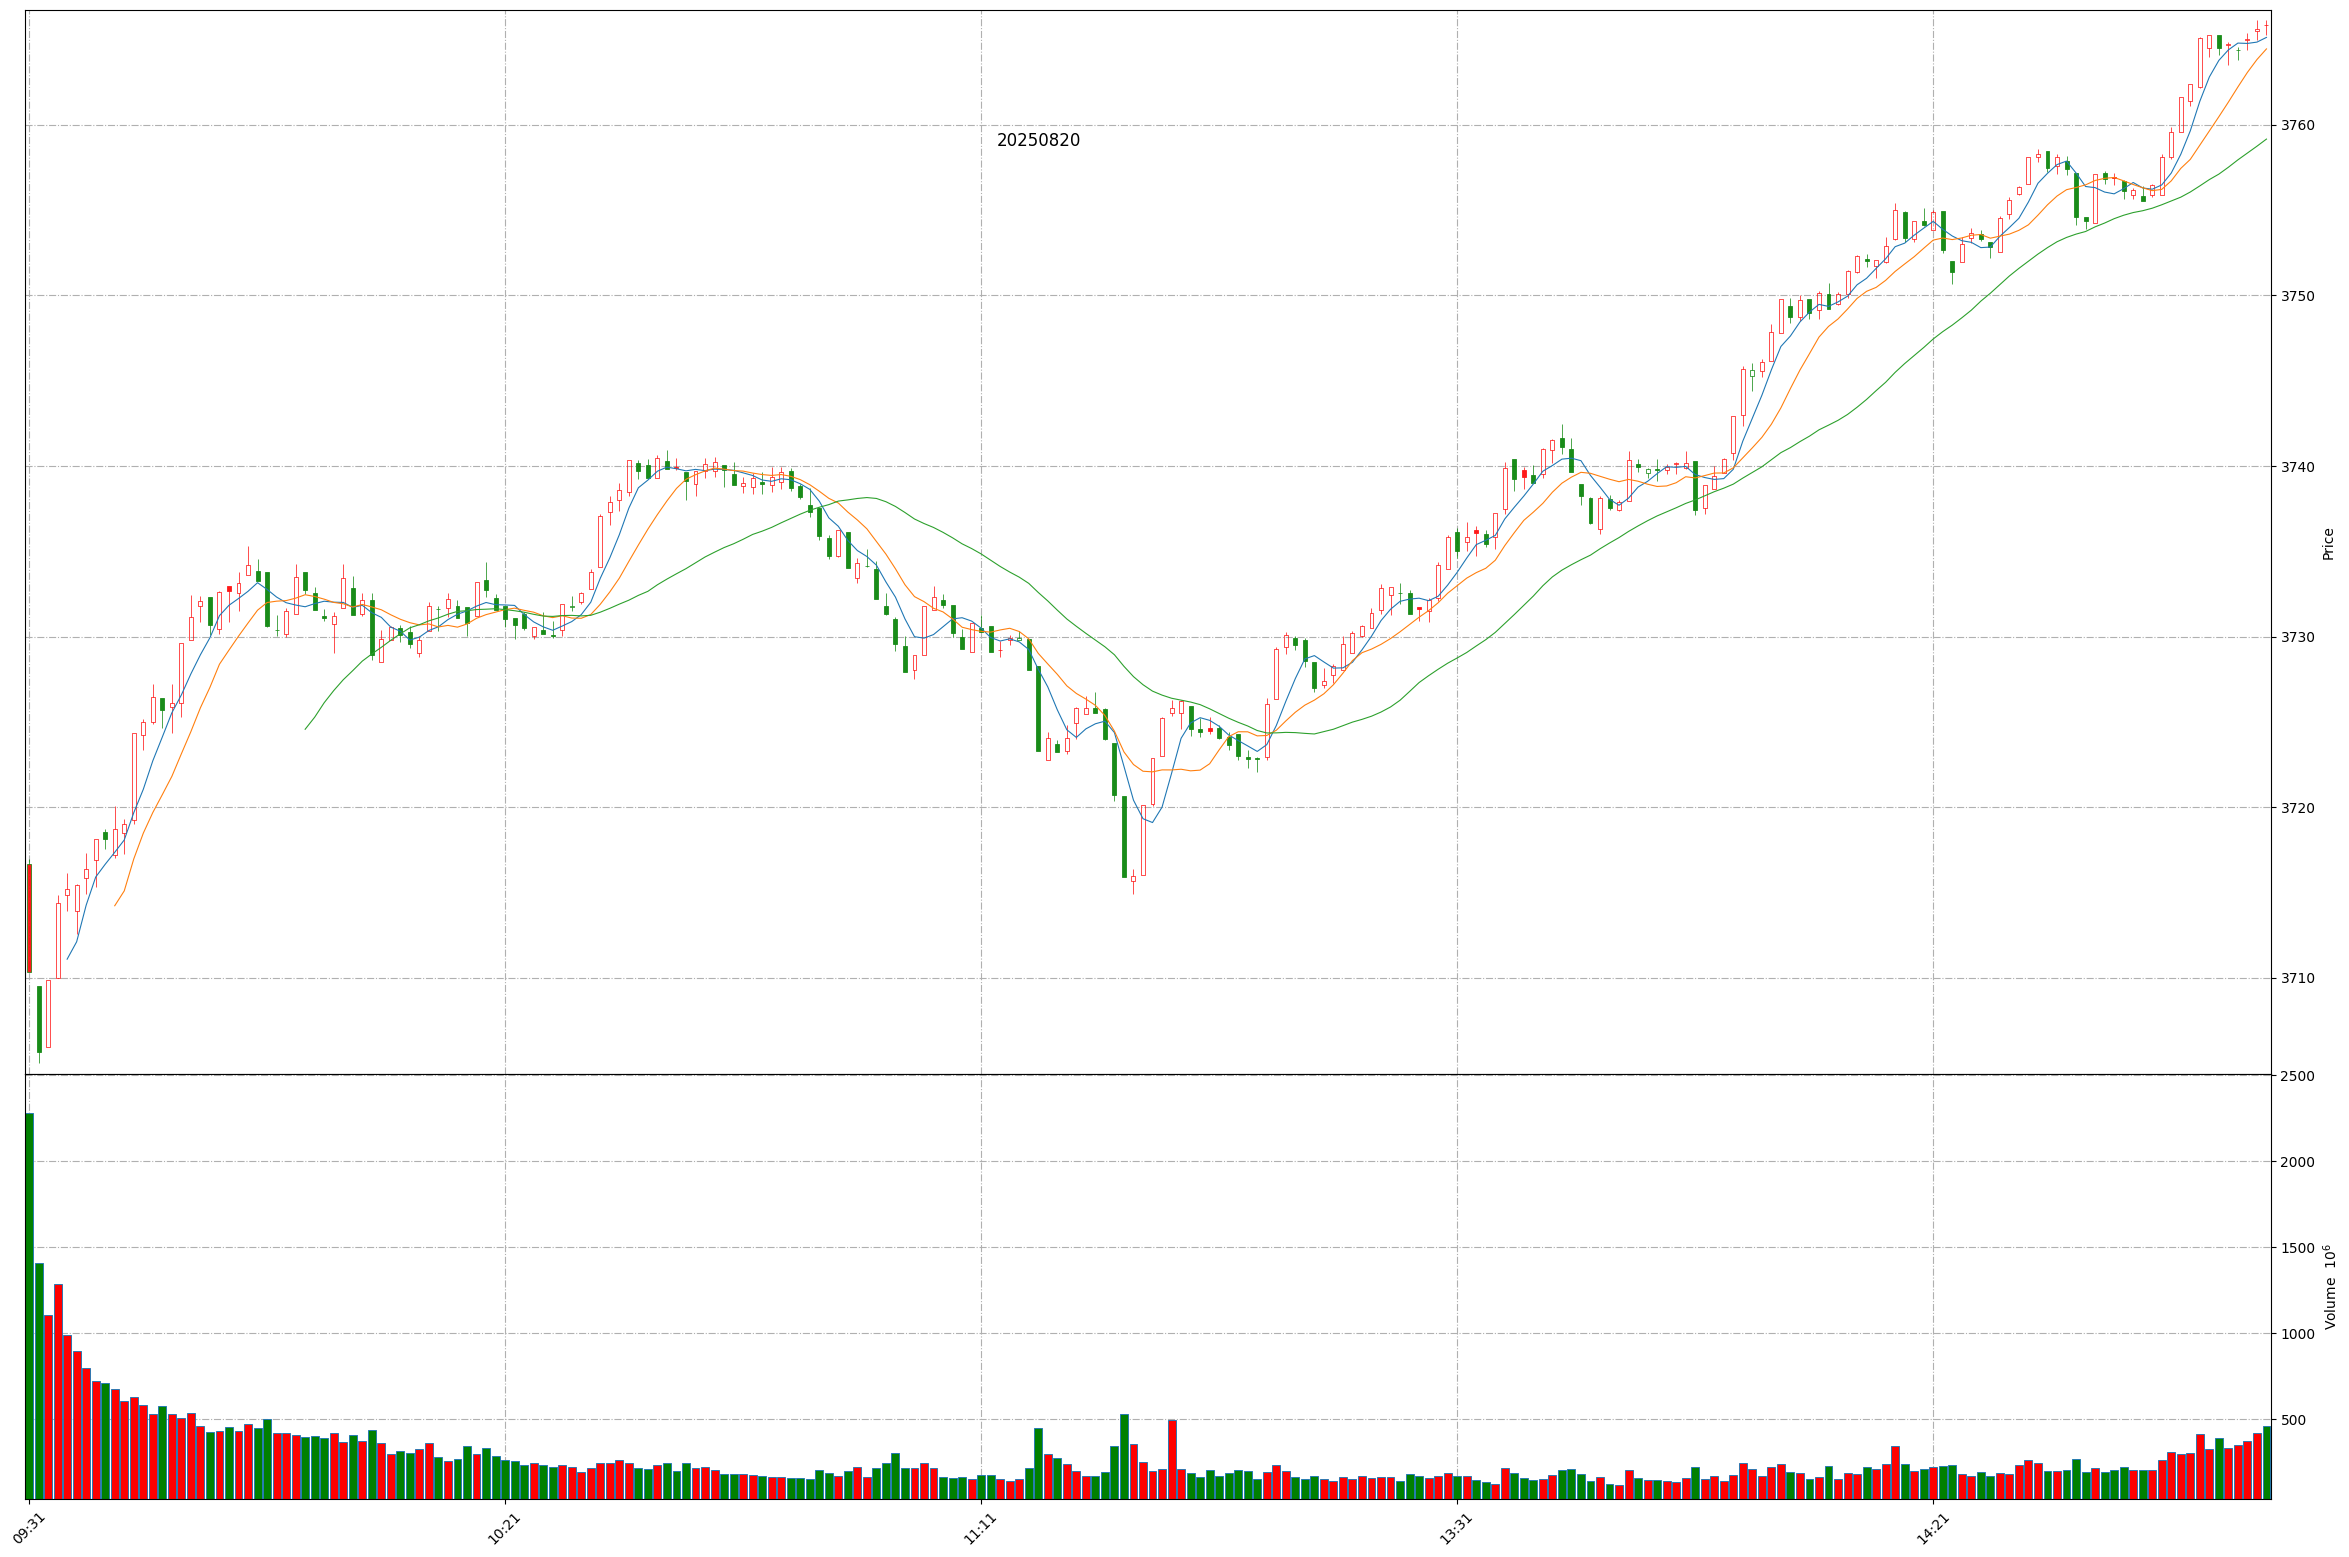
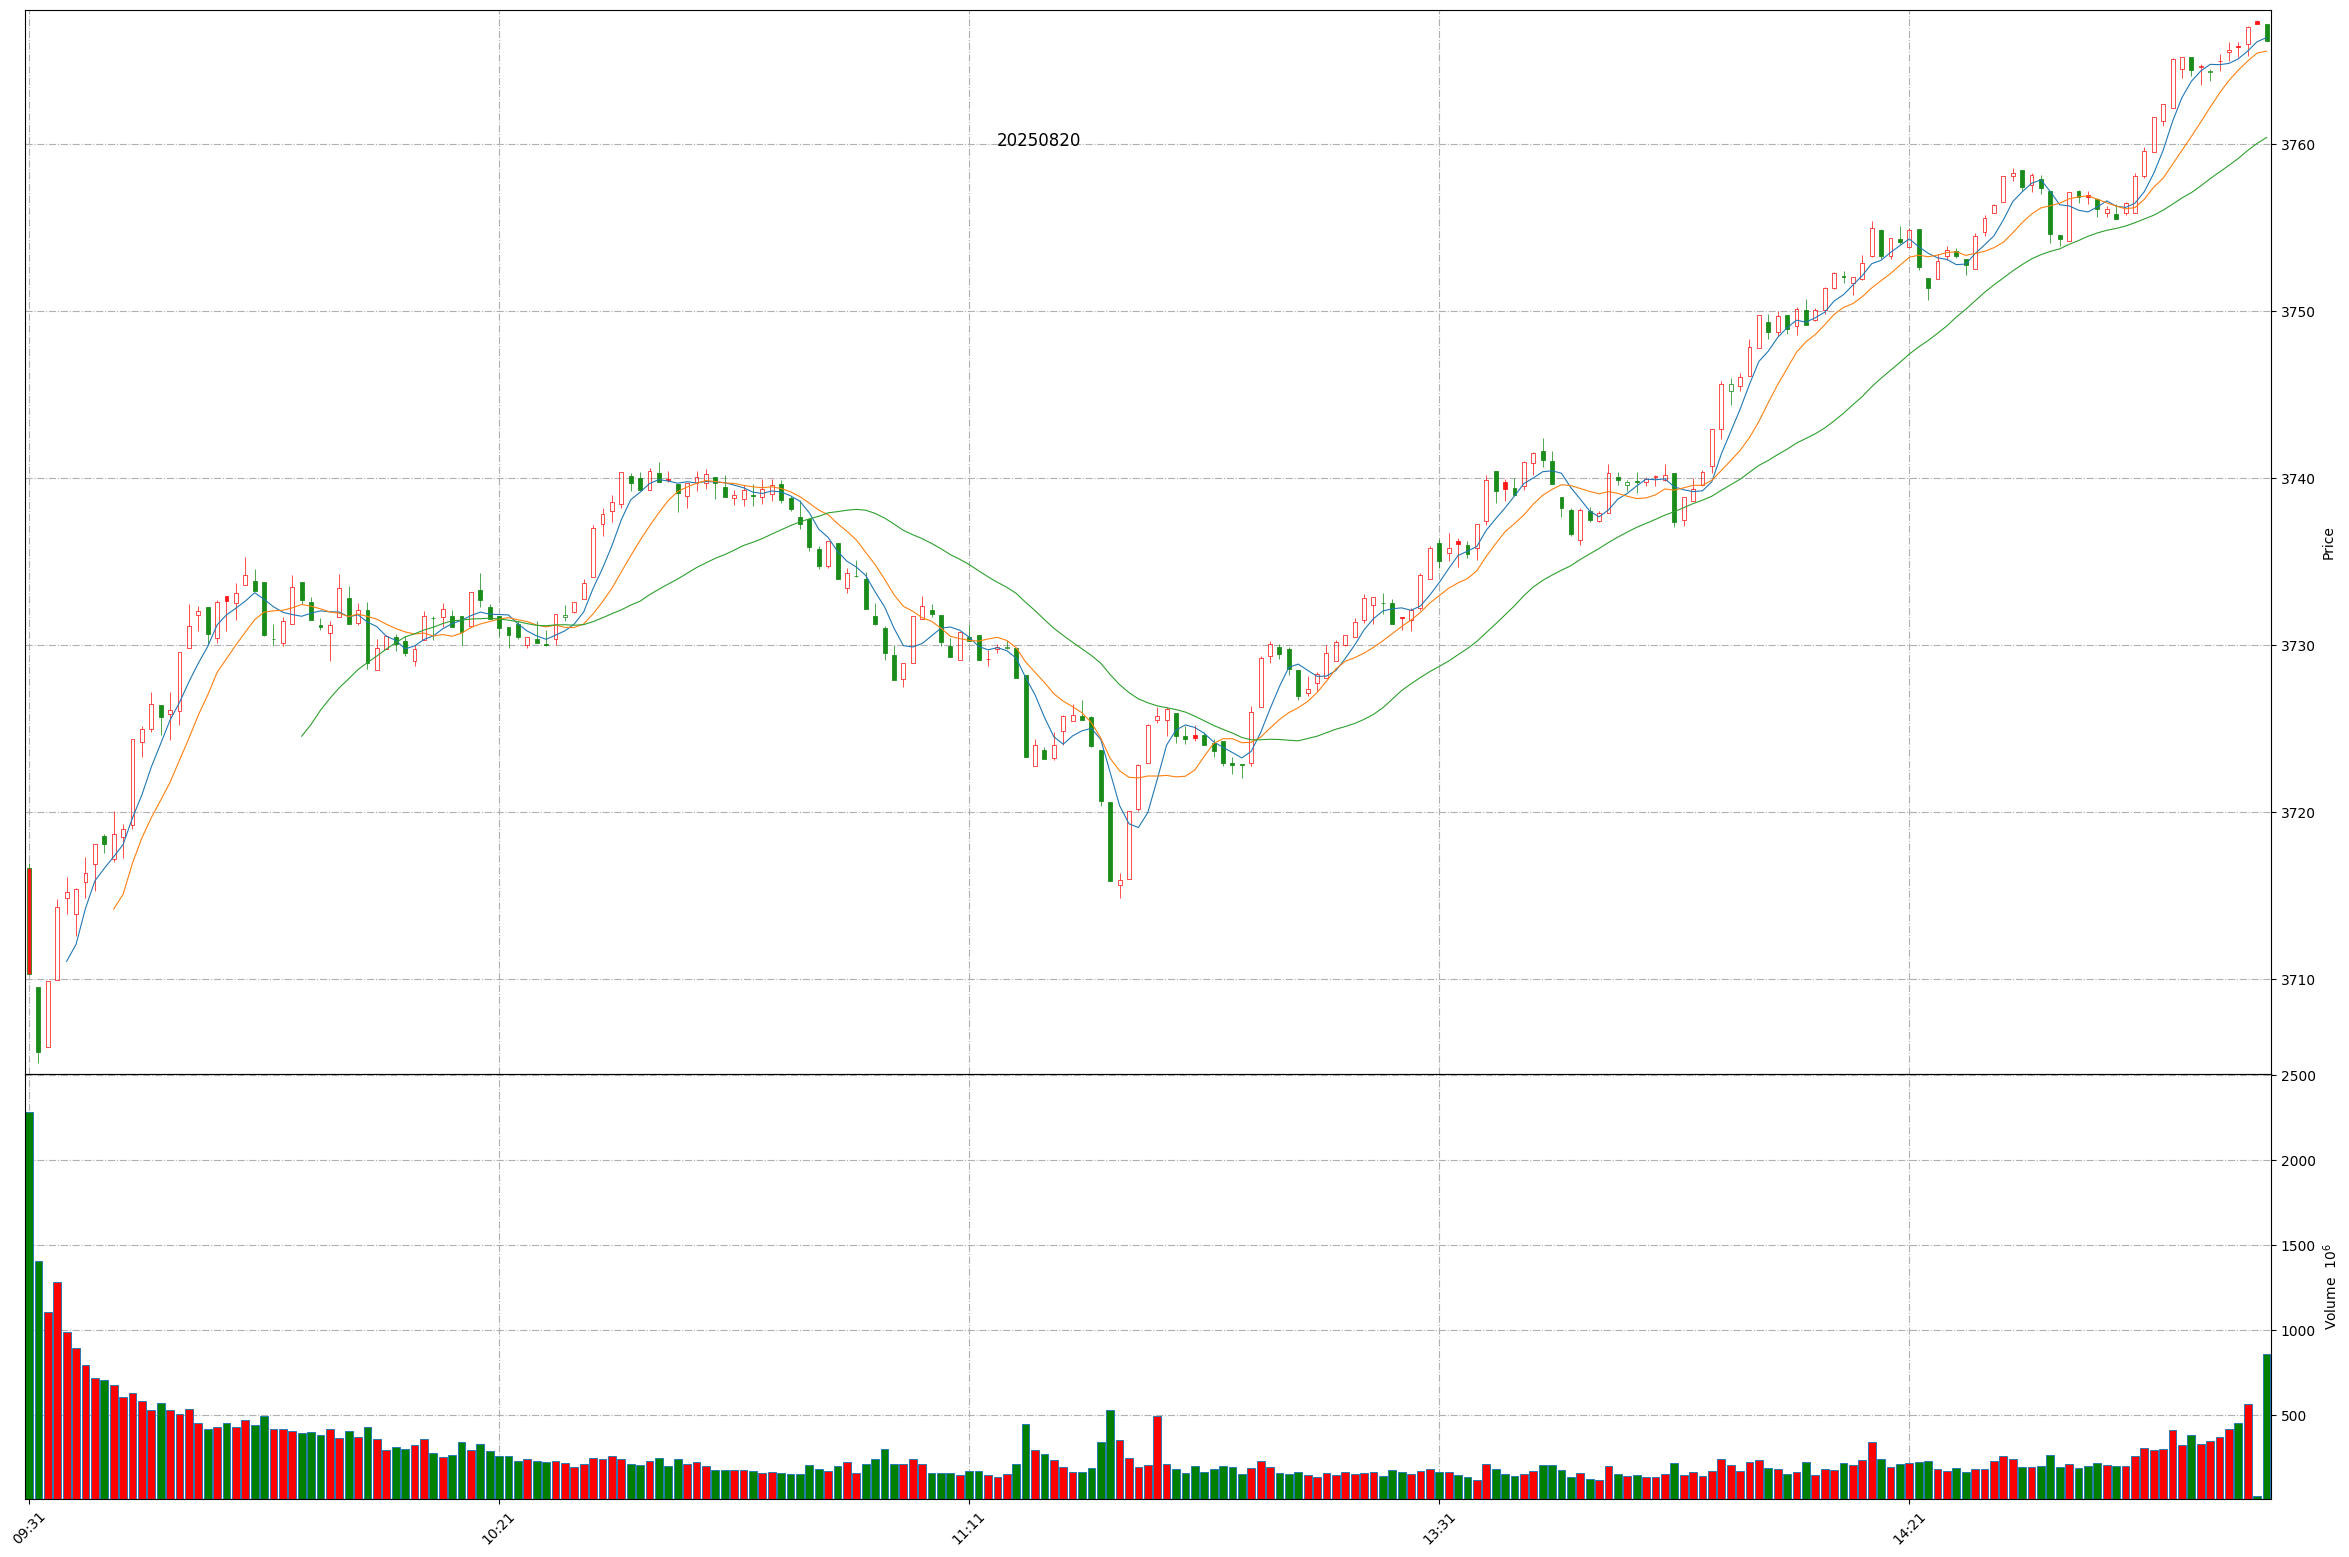
Github action update at 2025-08-20 15:14:14.

diff --git a/README.md b/README.md
@@ -1,11 +1,11 @@
 
 # Daily-A-share-market-quotes 每日 A 股指数（5min 更新）- 20250820
 
-### 上证指数 20250820 14:58
+### 上证指数 20250820 15:14
 ![](./fig/2025/8/20250820-sh000001.png)
 
-### 深证成指 20250820 14:58
+### 深证成指 20250820 15:14
 ![](./fig/2025/8/20250820-sz399001.png)
 
-### 北证50 20250820 14:58
+### 北证50 20250820 15:14
 ![](./fig/2025/8/20250820-bj899050.png)
